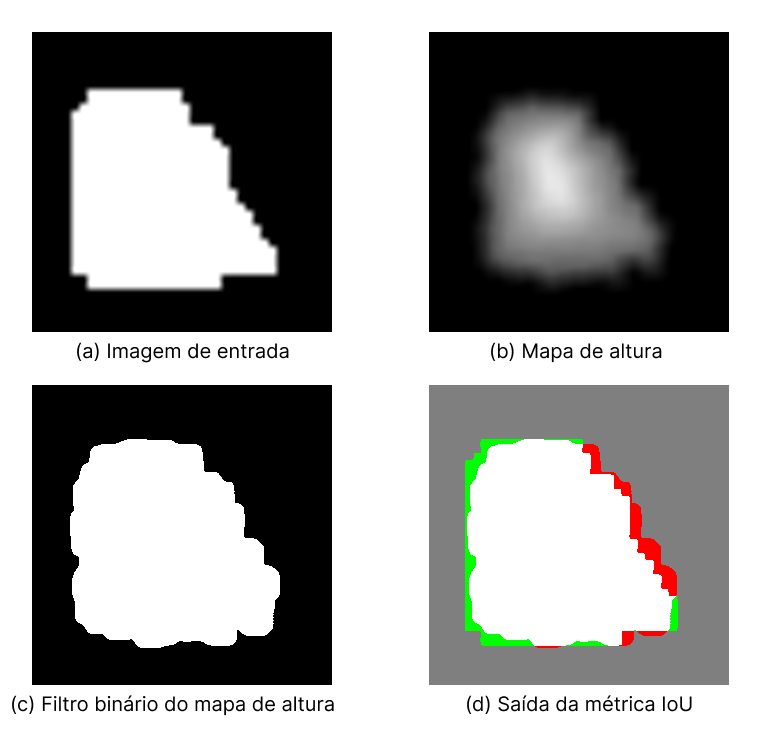
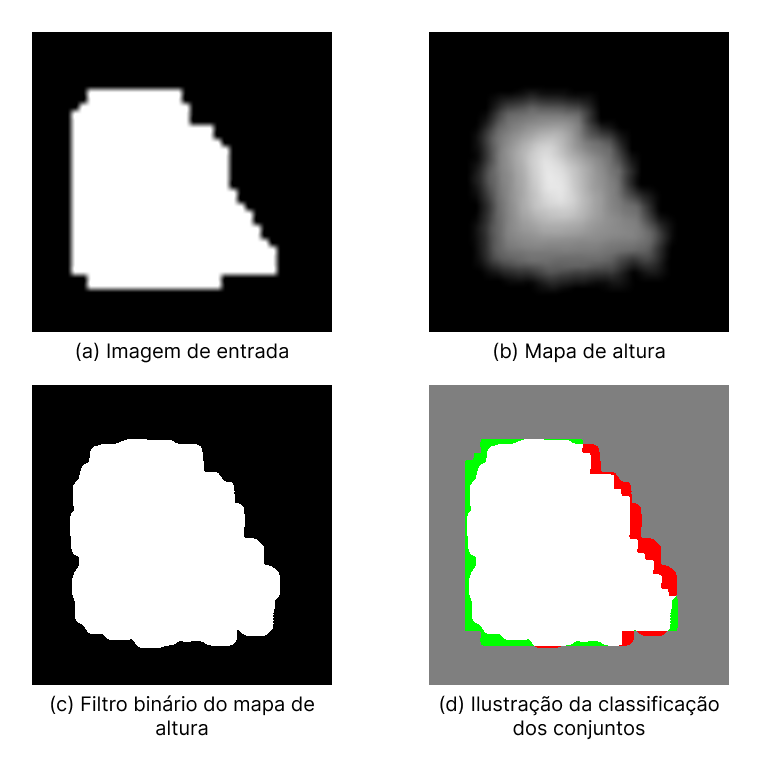
fix: rewriting some parts of chapter three

diff --git a/latex/implementacao.tex b/latex/implementacao.tex
@@ -1,6 +1,6 @@
 \section{Implementação}
 
-Pode-se dividir a implementação em quatro partes, sendo elas: segmentar imagens, selecionar contorno, gerar proceduralmente o mapa com biomas e interligar as ferramentas atráves de uma interface gráfica.
+Pode-se dividir a implementação em cinco partes, sendo elas: segmentar imagens, selecionar contorno, gerar proceduralmente o mapa com biomas, analisar casos de pós processamento e interligar as ferramentas atráves de uma interface gráfica.
 
 \subsection{Segmentar imagens}
 
@@ -8,9 +8,11 @@ A segmentação da imagem é usada para classificar os pixels da imagem a partir
 
 A linguagem de programação utilizada para desenvolvimento do projeto foi Python pois existem muitas bibliotecas que auxiliam na criação de arquiteturas complexas de Inteligência Artificial como o \hyperref[sec:EfficientPS]{EfficientPS}.
 
-Utilizou-se o código aberto oficial do trabalho ciéntifico postado no repositório do Github \footnote{\url{https://github.com/DeepSceneSeg/EfficientPS}}.
+Utilizou-se o código aberto oficial do trabalho ciéntifico postado no repositório do Github \footnote{\url{https://github.com/DeepSceneSeg/EfficientPS}} que foi baseado no tópico \hyperref[sec:EfficientPS]{EfficientPS}.
 
-Percebe-se que o resultado do modelo proposto não foi o esperado pois objetos de mesma classe como carros tem a mesma cor com uma borda branca exemplificados na \cref{fig:resultado_inicial}. Logo tentou-se mudar o código para gerar uma saída com objetos de mesma classe com cores diferentes como na figura \cref{fig:segmantations_2}.
+Utilizou-se um arquivo pré treinado desse modelo contendo o aprendizado do conjunto de imagens do \textit{Cityscapes} para segmentação panóptica, a ideia inicial era treinar com pelo menos mais um conjunto de dados porém surgiu-se diversos desafios para serem solucionados, dentre eles: conseguir autorização para baixar conjuntos de dados específicos para segmentação panóptica, outro problema foi preparar esse conjunto de dados para processar o aprendizado, além de problemas de limitação de processamento bruto. Portante decidiu-se utilizar o próprio modelo salvo baixado do repositório.
+
+Percebeu-se que o resultado do modelo proposto não foi o esperado pois objetos de mesma classe como carros tem a mesma cor com uma borda branca exemplificados na \cref{fig:resultado_inicial}. Logo tentou-se mudar o código para gerar uma saída com objetos de mesma classe com cores diferentes como na figura \cref{fig:segmantations_2}.
 
 \begin{figure}[!ht]
 	\centering
@@ -32,25 +34,24 @@ Seguiu-se os passos citados numa publicação no repositório \footnote{\url{htt
 
 \subsection{Selecionar contorno}
 
-Para representar a seleção do contorno utilizou-se uma técnica chamada de imagem binária, explicaa no subtópico seguinte.
+Para representar a seleção do contorno utilizou-se uma técnica chamada de imagem binária.
+A imagem  binária contém  apenas duas cores, geralmente preto e  branco. Pode-se ser utilizada como uma máscara para auxiliar o processamento do  mapa no contorno desejado \cite{Aznag2020}.
 
-\subsubsection{Imagem binária}
-
-Uma imagem  binária contém  apenas duas cores, geralmente preto e  branco e para essa aplicação sera utilizado uma imagem binária como uma máscara para servir de auxilio ao  gerar o  mapa no contorno desejado \cite{Aznag2020}.
-
-Utilizou-se duas maneiras para selecionar o contorno, sendo eles: selecionar por cor e selecionar por preenchimento por inundação — ou  em inglês  flood fill —.
+Utilizou-se duas maneiras para selecionar o contorno, sendo eles: selecionar por cor e selecionar por preenchimento de inundação — ou  em inglês  flood fill —.
 
 \subsubsubsection*{Selecionar por cor}
 
 O metódo de selecionar por cor se baseia em pegar a cor específica do clique na imagem e percorrer a imagem comparando a cor alvo com a cor da imagem, caso seja a mesma pinte o mesmo pixel da nova imagem como branco e caso não seja pinte como preto.
 
+Uma maneira mais performática de selecionar por cor é definir um espectro de cores e aplicar uma mascára usando o método \textit{inRange} da biblioteca OpenCV, pode-se escolher apenas uma cor.
+
 \subsubsubsection*{Selecionar por preenchimento de inundação}
 
-O método de  selecionar por preenchimento por inundação é um algoritmo de expansão a partir de um pixel validando se contém a mesma cor.
+O método de  selecionar por preenchimento por inundação é um algoritmo de expansão a partir de um pixel, validando se contém a mesma cor.
 
 A implementação inicia uma matriz de zeros com tamanho 2 pixeis maior do que a imagem original.
 
-O clique na  imagem será a semente — ou em inglês  seed — e a partir disso o algoritmo começa uma expansão para os pixeis vizinhos — de cima, baixo, esquerda e direita — caso contenha o mesmo valor de cor pinta de cor branca, e refaz com os pixels marcados  anteriormente.
+O clique na  imagem será a semente — ou em inglês  seed — e a partir disso o algoritmo começa uma expansão para os pixeis vizinhos — de cima, baixo, esquerda e direita — caso contenha o mesmo valor de cor pinta de cor branca, e refaz com os pixels marcados  anteriormente até não ter mais o pontos brancos para marcar.
 
 \subsubsubsection*{Tratamento da imagem binária}
 
@@ -64,6 +65,16 @@ Após a saída dos algoritmos de seleção, o objeto selecionado é detectado e 
 	\label{fig:saidas_selecao}
 \end{figure}
 
+Porém há uma maneira mais performática para fazer isso, inclusive melhorando os resultados devido ao redimensionamento e a borda não chegarem a um bom cenário. Essa outra maneira usa um método para localizar o objeto na imagem binária e corta a imagem com as cordenadas e dimenões oferecidas. Ápos isso é acrescentado uma borda na altura ou largura com a folga entre as duas, tornando assim a imagem quadricular, depois é redimensionado para manter um padrão e acrescentado mais uma vez uma borda para representar o mar. É possível observar na \cref{fig:saidas_selecao_perf} que o objeto não foi distorcido como na método anterior e manteve-se centralizada na imagem final.
+
+\begin{figure}[!ht]
+	\centering
+    \caption{Passos da seleção da saída da inteligência  artificial mais performático.}
+	\includegraphics[width=1.0\textwidth]{figures/saidas_selecao.png}
+    \legend{Fonte: \space Autoria própria}
+	\label{fig:saidas_selecao_perf}
+\end{figure}
+
 \subsection{Geração procedural do mapa}
 
 Usou-se como base para a geração procedural do mapa o artigo \hyperref[sec:geracaoProcedural]{Polygonal Map Generation for Games} com uma implementação não oficial porém baseada no artigo feito em Python.
@@ -71,9 +82,6 @@ Usou-se como base para a geração procedural do mapa o artigo \hyperref[sec:ger
 \subsubsection{Ilha gerada no contorno}
 
 Para gerar o mapa da ilha é preciso gerar um diagrama de Voronoi. No diagrama primeiro é definido os pontos de quantidade preestabelecida e de localização pseudo-aleatória, esses pontos serão os centroides dos polígonos. Os vértices dos polígonos são gerados a partir da intersecção entre retas perpendiculares aos pontos médios entre os nós vizinhos, logo é criado outro grafo com esses pontos. A definição dos vértices é ilustrada na \cref{fig:explicacao_vertice}, sendo os pontos vermelhos os centroides que são ligados por linhas pretas para gerar pontos médios, representados por pontos amarelos para traçar uma reta perpendicular, depois é calculado a intersecção representado pelo ponto azul que se torna o vertice, e a cor rosa representa a aresta do polígono.
-
-A \cref{fig:diagrama_voronoi_pontos} ilustra o modelo do diagrama de Voronoi do algoritmo, sendo os pontos vermelhos os centroides que são ligados por linhas pretas, os pontos azuis são os vértices que se ligam com linha branca para tornar as arestas formando assim o polígono.
-
 
 \begin{figure}[!ht]
 	\centering
@@ -83,6 +91,8 @@ A \cref{fig:diagrama_voronoi_pontos} ilustra o modelo do diagrama de Voronoi do 
 	\label{fig:explicacao_vertice}
 \end{figure}
 
+A \cref{fig:diagrama_voronoi_pontos} ilustra o modelo do diagrama de Voronoi do algoritmo, sendo os pontos vermelhos os centroides que são ligados por linhas pretas, os pontos azuis são os vértices que se ligam com linha branca para tornar as arestas formando assim o polígono.
+
 \begin{figure}[!ht]
 	\centering
     \caption{Ilustração do diagrama de Voronoi.}
@@ -91,7 +101,7 @@ A \cref{fig:diagrama_voronoi_pontos} ilustra o modelo do diagrama de Voronoi do 
 	\label{fig:diagrama_voronoi_pontos}
 \end{figure}
 
-Cada polígono criado será nomeado de região e basta definir o tipo do terreno, elevação e umidade. Na lógica, marca-se todos os polígonos com o terreno de tipo oceano, depois percorre-se todos os pontos da imagem de entrada — ilustrada em \cref{fig:entrada_gerar_mapa} — e verifica-se se cada pixel que está contido no objeto da imagem binária encontra-se nos polígonos gerados. Se os pontos participarem, marca-se o terreno como tipo terra, e em seguida checa-se em quais polígonos do tipo terra são vizinhos do tipo oceano, se sim, define-se como do tipo litoral, e também assina-se os pontos desses polígonos que encontram-se no polígono do tipo oceano.
+Cada polígono criado será nomeado de região e basta definir o tipo do terreno, elevação e umidade. Na lógica, marca-se todos os polígonos com o terreno de tipo oceano, depois percorre-se todos os pontos da imagem de entrada e verifica-se se cada pixel que está contido no objeto da imagem binária encontra-se nos polígonos gerados. Se os pontos participarem, marca-se o terreno como tipo terra, e em seguida checa-se em quais polígonos do tipo terra são vizinhos do tipo oceano, se sim, define-se como do tipo litoral, e também assina-se os pontos desses polígonos que encontram-se no polígono do tipo oceano.
 
 Para se calcular a elevação dos polígonos primeiramente é calculado a elevação das arestas de todos os polígonos, isso é feito a partir de uma busca em profundidade que possui o inicio em todas as arestas que tocam a borda do grafico. A toda nova iteração, as arestas que tocam os cantos são atribuidas com o valor 0, e assim defini-se uma evolução da altura conforme chega-se ao centro do mapa.
 Após isso é feito o calculo de redistribuição de elevação, que com base na elevação calculada anteriormente é feito uma lista ordenadas pela elevação, começando da menor para a maior. Cada item da lista é enumerado a partir de um índice i e com essa enumeração é calculado usando a \cref{eq:total_indexes}. Após isso é calculado a \cref{eq:vertex_elevation} sendo X a elevação do vertice.
@@ -106,7 +116,6 @@ E por final para calcular a elevação do poligino é feito a média dos vertice
 	\label{eq:vertex_elevation}
 	X = sqrt(fator) - sqrt(sqrt * (1 - Y))
 \end{equation}
-
 
 Para assinalar os biomas verifica-se o tipo do terreno, altura e a umidade, cada um desses parâmetros liga-se um determinado bioma. E para atribuição final aplica-se a função descrita na \cref{fig:diagrama-whittaker} porém edita-se para chegar nos resultados da \cref{tab:biomes} \space\cite{amitp2010}.
 
@@ -130,14 +139,6 @@ Para assinalar os biomas verifica-se o tipo do terreno, altura e a umidade, cada
 	\hline
 	\end{tabularx}
 \end{sidewaystable}
-
-\begin{figure}[!ht]
-	\centering
-    \caption{Entrada binária para gerar mapa.}
-	\includegraphics[width=0.6\textwidth]{figures/entrada_gerar_mapa.png}
-    \legend{Fonte: \space Autoria própria}
-	\label{fig:entrada_gerar_mapa}
-\end{figure}
 
 Para gerar o mapa 3d é gerado uma imagem denominada de mapa de altura, construído com base nos dados de elevações do grafo. Basicamente gera-se uma imagem com tonalidades de cinza sendo o pixel branco com valor 255 o ponto mais alto do mapa e o pixel preto com valor 0 o ponto mais baixo. A \cref{fig:heightmap} ilustra uma saída de mapa de altura.
 
@@ -184,45 +185,36 @@ Obtém-se como resultado a \cref{fig:resultado_iou}, sendo as figuras da esquerd
 
 Após a execução desses laços aninhados calcula-se com a operação de divisão para cada valor do dicionário em prol de obter as médias.
 
-
-\subsection{Interface gráfica}
-
-Utilizou-se a biblioteca PyQt5 para criar uma interface gráfica na qual o usuário poderá interagir e criar um mapa a partir da seleção do contorno detectado pelo modelo de IA.
-
-Esse módulo é responsável para conectar todas as partes e obter o mapa. Portanto é necessário abrir uma imagem do diretório local, carregar e disparar a execução do processo de segmentação de imagem. Após o resultado da IA, permitir a seleção do contorno,  criar uma imagem binária a partir do contorno e envia-lá como argumento na geração procedural de mapas.
-
-Além disso para promever a usabilidade utilizou-se um loading específico para PyQt5 e para isso teve-se que usar threads, criando classes para rodar as tarefas de forma separada e síncrona.
-
 \subsection{Pós processamento}
 Analisando-se o resultado gerado no Unity do mapa 3d na \cref{fig:unity_init} percebe-se que não existe uma harmonia entre os biomas e por isso gerou-se uma solução aplicando um desfoque na imagem de mapa de altura para suavizar a mudança de biomas.
 
 \begin{figure}[!ht]
 	\centering
-    \caption{Resultado no unity sem harmonia.}
+    \caption{Resultado no unity sem usar filtro de desfoque no mapa de altura.}
 	\includegraphics[width=0.8\textwidth]{figures/unity_entry.png}
     \legend{Fonte: \space Autoria própria}
 	\label{fig:unity_init}
 \end{figure}
 
-Aplicando um filtro — ou kernel — de desfoque com tamanho 100x100, obteve-se o resultado ilustrado na \cref{fig:unity_blur}. Porém se analisar a \cref{tab:resultados_blur_error} pode-se observar que o resultado piorou as métricas, conclui-se que o desfoque piorou a qualidade de equivalência de contornos, aumentando um problema de escala, visto que apenas o erro do mapa de altura foi encontrado. Na \cref{fig:comparando_blur} observa-se uma representação visual dos conjuntos definidos no \hyperref[sec:classificacao_conjuntos]{sub tópico}.
+Aplicando um filtro — ou kernel — de desfoque com tamanho 100x100, obteve-se o resultado ilustrado na \cref{fig:unity_blur}. Porém se analisar a \cref{tab:blur_error_input_output_3d} pode-se observar que o resultado piorou as métricas, conclui-se que o desfoque piorou a qualidade de equivalência de contornos, aumentando um problema de escala, visto que apenas o erro do mapa de altura foi encontrado. Na \cref{fig:comparando_blur} observa-se uma representação visual dos conjuntos definidos no \hyperref[sec:classificacao_conjuntos]{sub tópico}.
 
 \begin{figure}[!ht]
 	\centering
-    \caption{Resultado no unity usando desfoque.}
+    \caption{Resultado no unity usando filtro de desfoque no mapa de altura.}
 	\includegraphics[width=0.8\textwidth]{figures/unity_blur.png}
     \legend{Fonte: \space Autoria própria}
 	\label{fig:unity_blur}
 \end{figure}
 
+\input{blur_error.tex}
+
 \begin{figure}[!ht]
 	\centering
-    \caption{Resultado comparando mapa de altura com e sem desfoque.}
+    \caption{Ilustração da classificação de conjuntos entre a iamgem de entrada e o mapa de altura}
 	\includegraphics[width=0.8\textwidth]{figures/comparacao_blur.png}
     \legend{Fonte: \space Autoria própria}
 	\label{fig:comparando_blur}
 \end{figure}
-
-\input{blur_error.tex}
 
 Logo para tratar esse problema adotou-se uma solução baseada em redimensionar a imagem e adicionar uma borda para que diminui-se assim o tamanho do mapa de altura. Portanto foi redimensionado uma imagem 1000x1000 para 800x800, reduzindo em 20\% e depois adicionado uma borda de cor preta em todos os lados de tamanho 100, logo retorna ao tamanho original. E para encontrar o melhor tamanho do filtro de desfoque para essas condições executou-se os testes alterando o tamanho do filtro apos a aplicação da técnica de diminuir o tamanho do mapa. Os resultados referentes aos testes encontram-se na \cref{tab:blur_solution_input_output_3d}. Para selecionar o melhor resultado definiu-se a quesito de ter a menor métrica de desfoque — que significa ter mais desfoque na imagem — e com a métrica IoU que varie no máximo 1\% da métrica sem o filtro de desfoque. Logo seleciona-se o restultado de filtro de tamanho 80 pois a métrica IoU tem 79\% assim como o tamanho de filtro 0. Percebe-se também que com a diminuição da borda resultou no comparrtilhamento entre os erros da imagem de entrada com o mapa de altura.
 
@@ -231,3 +223,11 @@ Logo para tratar esse problema adotou-se uma solução baseada em redimensionar 
 Após melhorar o resultado do mapa de entrada é necessário ajustar o mapa 2d visto que esse deve ser bem parecido com o mapa de altura, parar informar por exemplo a localização exata do personagem em jogo com visualização do mapa inteiro. Observa-se na \cref{tab:border_2d_solution_output_2d_output_3d} os resultados obtidos dos testes com o tamanho da borda adicionada ao mapa 2d e o maior valor de IoU obtido foi 60.
 
 \input{border_2d_solution.tex}
+
+\subsection{Interface gráfica}
+
+Utilizou-se a biblioteca PyQt5 para criar uma interface gráfica na qual o usuário poderá interagir e criar um mapa a partir da seleção do contorno detectado pelo modelo de IA.
+
+Esse módulo é responsável para conectar todas as partes e obter o mapa. Portanto é necessário abrir uma imagem do diretório local, carregar e disparar a execução do processo de segmentação de imagem. Após o resultado da IA, permitir a seleção do contorno,  criar uma imagem binária a partir do contorno e envia-lá como argumento na geração procedural de mapas.
+
+Além disso para promever a usabilidade utilizou-se um loading específico para PyQt5 e para isso teve-se que usar threads, criando classes para rodar as tarefas de forma separada e síncrona.

diff --git a/latex/proposta.tex b/latex/proposta.tex
@@ -2,7 +2,9 @@
 
 Este trabalho tem como proposta a utilização de um modelo de inteligência artificial para segmentação panóptica que irá classificar os pixeis na imagem e permitir que os usuários gerem mapas procedurais a partir da seleção de um dos segmentos da imagem.
 
-Utilizando o modelo EfficientPS é possível fazer a segmentação panóptica, segue um exemplo na \cref{fig:segmantations_1} e na \cref{fig:segmantations_2}. O modelo citado está disponível no GitHub dos próprios autores \space\citeonline{mohan2020efficientps} e será treinado com a combinação de pelo menos dois conjuntos de dados citados anteriormente. No resultado apenas será identificado os pixeis de classes contidas nos conjuntos de dados escolhidos, portanto é possível que em uma imagem não seja identificado nada:
+Utilizando o modelo EfficientPS é possível fazer a segmentação panóptica, segue exemplos nas \crefrange{fig:segmantations_1}{fig:segmantations_2}. O modelo citado está disponível no GitHub dos próprios autores \space\citeonline{mohan2020efficientps}
+% e será treinado com a combinação de pelo menos dois conjuntos de dados citados anteriormente.
+ No resultado apenas será identificado os pixeis de classes contidas nos conjuntos de dados escolhidos, portanto é possível que em uma imagem não seja identificado nada:
 
 \begin{figure}[!ht]
 	\centering

diff --git a/latex/final.tex b/latex/final.tex
@@ -1,6 +1,6 @@
 \begin{table}[h]
             \centering
-            \caption{Resultados dos testes input output 2d}
+            \caption{Resultados dos testes entre imagem de entrada e mapa 2d}
             \label{tab:final_input_output_2d}
             \begin{tabular}{|c|c|c|c|c|c|c|c|}
                 \hline
@@ -19,7 +19,7 @@
 
 \begin{table}[h]
             \centering
-            \caption{Resultados dos testes input output 3d}
+            \caption{Resultados dos testes entre imagem de entrada e mapa de altura}
             \label{tab:final_input_output_3d}
             \begin{tabular}{|c|c|c|c|c|c|c|c|}
                 \hline
@@ -38,7 +38,7 @@
 
 \begin{table}[h]
             \centering
-            \caption{Resultados dos testes output 2d output 3d}
+            \caption{Resultados dos testes entre mapa 2d e mapa de altura}
             \label{tab:final_output_2d_output_3d}
             \begin{tabular}{|c|c|c|c|c|c|c|c|}
                 \hline

diff --git a/latex/blur_error.tex b/latex/blur_error.tex
@@ -1,6 +1,6 @@
 \begin{table}[h]
             \centering
-            \caption{Resultados dos testes input output 3d}
+            \caption{Resultados dos testes entre imagem de entrada e mapa de altura}
             \label{tab:blur_error_input_output_3d}
             \begin{tabular}{|c|c|c|c|c|}
                 \hline

diff --git a/latex/border_2d_solution.tex b/latex/border_2d_solution.tex
@@ -1,6 +1,6 @@
 \begin{table}[h]
     \centering
-    \caption{Resultados dos testes output2d output3d}
+    \caption{Resultados dos testes entre mapa 2d e mapa de altura}
     \label{tab:border_2d_solution_output_2d_output_3d}
     \begin{tabular}{|c|c|c|c|}
         \hline

diff --git a/latex/blur_solution.tex b/latex/blur_solution.tex
@@ -1,6 +1,6 @@
 \begin{table}[h]
     \centering
-    \caption{Resultados dos testes input output3d}
+    \caption{Resultados dos testes entre imagem de entrada e output3d}
     \label{tab:blur_solution_input_output_3d}
     \begin{tabular}{|c|c|c|c|c|}
         \hline
